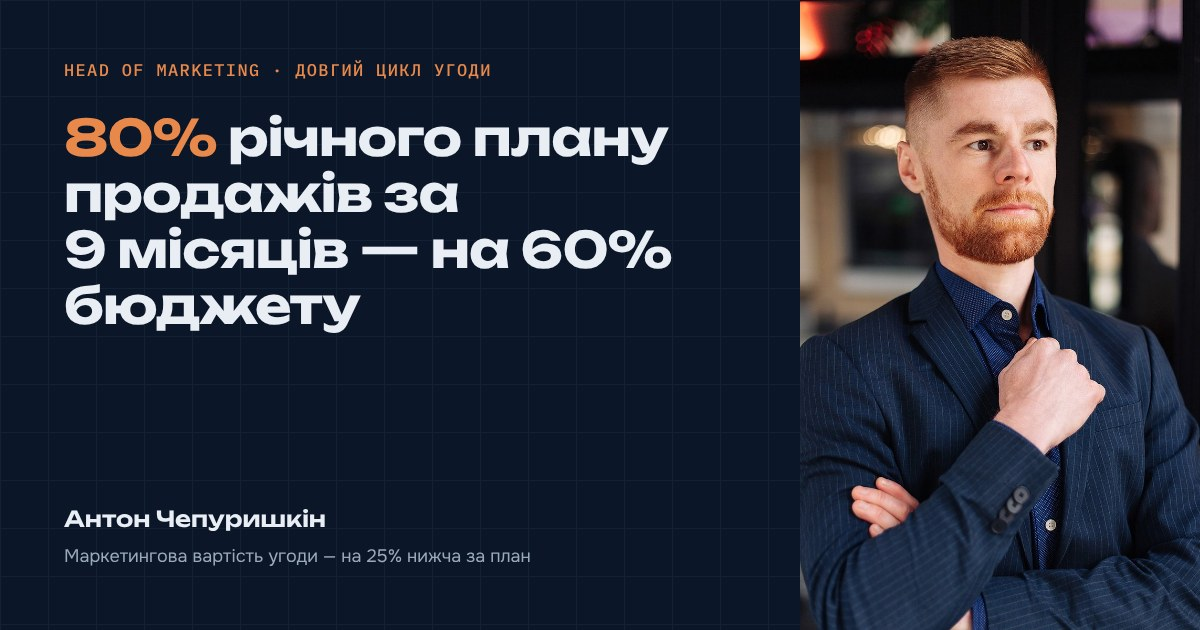
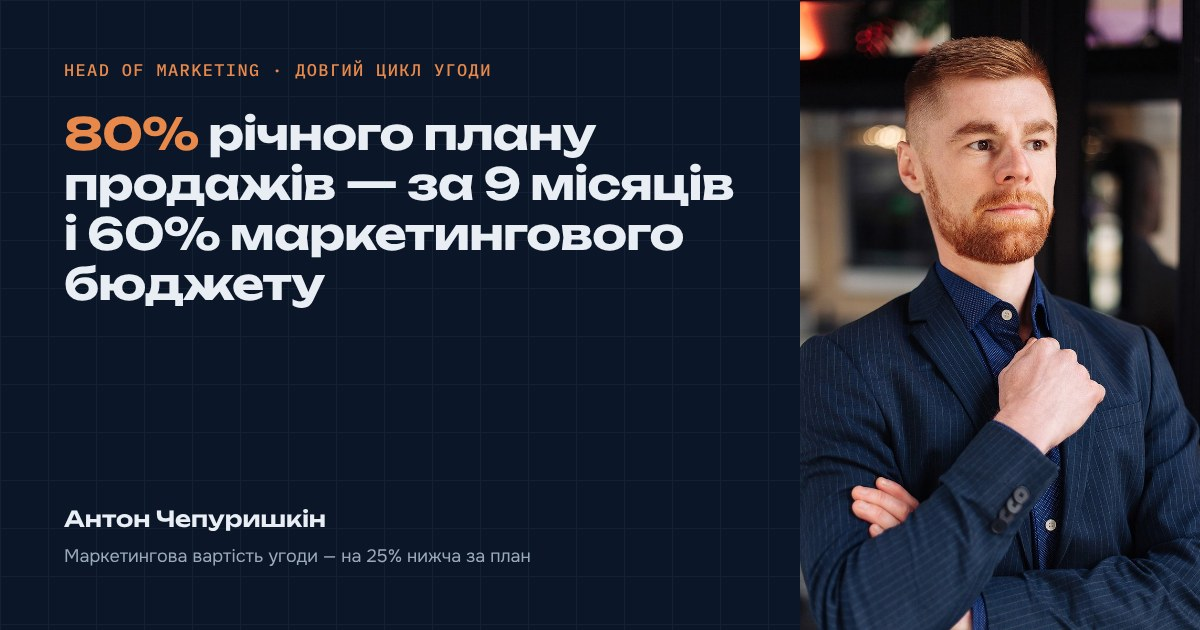
Офер: «80% річного плану продажів — за 9 місяців і 60% маркетингового бюджету» з поясненням
- Підзаголовок пояснює цифри: 75% року, 80% плану, 60% бюджету, −25% вартості угоди
- «11 років власного бізнесу» перенесено в рядок фактів
- Оновлено PDF і og-зображення

Claude-Session: https://claude.ai/code/session_012grT2ZhQbnJV7N1tvKRLXT

Changed region(s): [[0.0308, 0.181, 0.6167, 0.5429]]

diff --git a/index.html b/index.html
@@ -8,7 +8,7 @@
 <meta property="og:type" content="website">
 <meta property="og:locale" content="uk_UA">
 <meta property="og:title" content="Антон Чепуришкін — Head of Marketing">
-<meta property="og:description" content="80% річного плану продажів за 9 місяців — на 60% бюджету. Маркетингова вартість угоди — на 25% нижча за план.">
+<meta property="og:description" content="80% річного плану продажів — за 9 місяців і 60% маркетингового бюджету. Кожна угода коштувала маркетингу на 25% менше за план.">
 <meta property="og:url" content="https://anton-chepuryshkin.github.io/anton-head-cv/">
 <meta property="og:image" content="https://anton-chepuryshkin.github.io/anton-head-cv/og.jpg">
 <link rel="canonical" href="https://anton-chepuryshkin.github.io/anton-head-cv/">
@@ -399,8 +399,8 @@ blockquote::before{content:"“";position:absolute;left:22px;top:10px;font:700 6
   <div class="wrap">
     <div>
       <p class="mono eyebrow">Head of Marketing · дорогі продукти · довгий цикл угоди</p>
-      <h1><em>80%</em> річного плану продажів за 9&nbsp;місяців — на&nbsp;60% бюджету</h1>
-      <p class="sub">Маркетингова вартість угоди — на 25% нижча за план. Рахую маркетинг як власник: 11 років свого бізнесу, 6 — у маркетингу.</p>
+      <h1><em>80%</em> річного плану продажів — за 9&nbsp;місяців і&nbsp;60% маркетингового бюджету</h1>
+      <p class="sub">Минуло 75% року, а план виконано на 80%. Бюджету витрачено 60% — кожна угода коштувала маркетингу на 25% менше за план.</p>
       <div class="cta">
         <a class="btn btn-primary" href="https://t.me/Anton_lucky_man" target="_blank" rel="noopener">Написати в Telegram →</a>
         <a class="btn btn-ghost" href="#cases">Дивитися кейси</a>
@@ -408,7 +408,7 @@ blockquote::before{content:"“";position:absolute;left:22px;top:10px;font:700 6
       </div>
       <div class="facts mono">
         <span>Конверсія в зустріч ×6</span>
-        <span>Команда 6 + 2 підрядники</span>
+        <span>11 років власного бізнесу, 6 — у маркетингу</span>
         <span>Нерухомість · iGaming · e-commerce</span>
         <span>AI у виробництві контенту</span>
       </div>

diff --git a/print/cv.html b/print/cv.html
@@ -124,8 +124,8 @@ h1,h2,h3{margin:0}
     <div>
       <h1>Антон Чепуришкін</h1>
       <p class="mono eyebrow">Head of Marketing · дорогі продукти · довгий цикл угоди</p>
-      <p class="hook"><em>80%</em> річного плану продажів за 9&nbsp;місяців — на&nbsp;60% бюджету</p>
-      <p class="sub">Маркетингова вартість угоди — на 25% нижча за план. Рахую маркетинг як власник: 11 років свого бізнесу, 6 — у маркетингу.</p>
+      <p class="hook"><em>80%</em> річного плану продажів — за 9&nbsp;місяців і&nbsp;60% маркетингового бюджету</p>
+      <p class="sub">Минуло 75% року, а план виконано на 80%. Бюджету витрачено 60% — кожна угода коштувала маркетингу на 25% менше за план.</p>
       <div class="contacts">
         <span>+38 067 457 97 26</span>
         <span>antonchepuryshkin@gmail.com</span>
